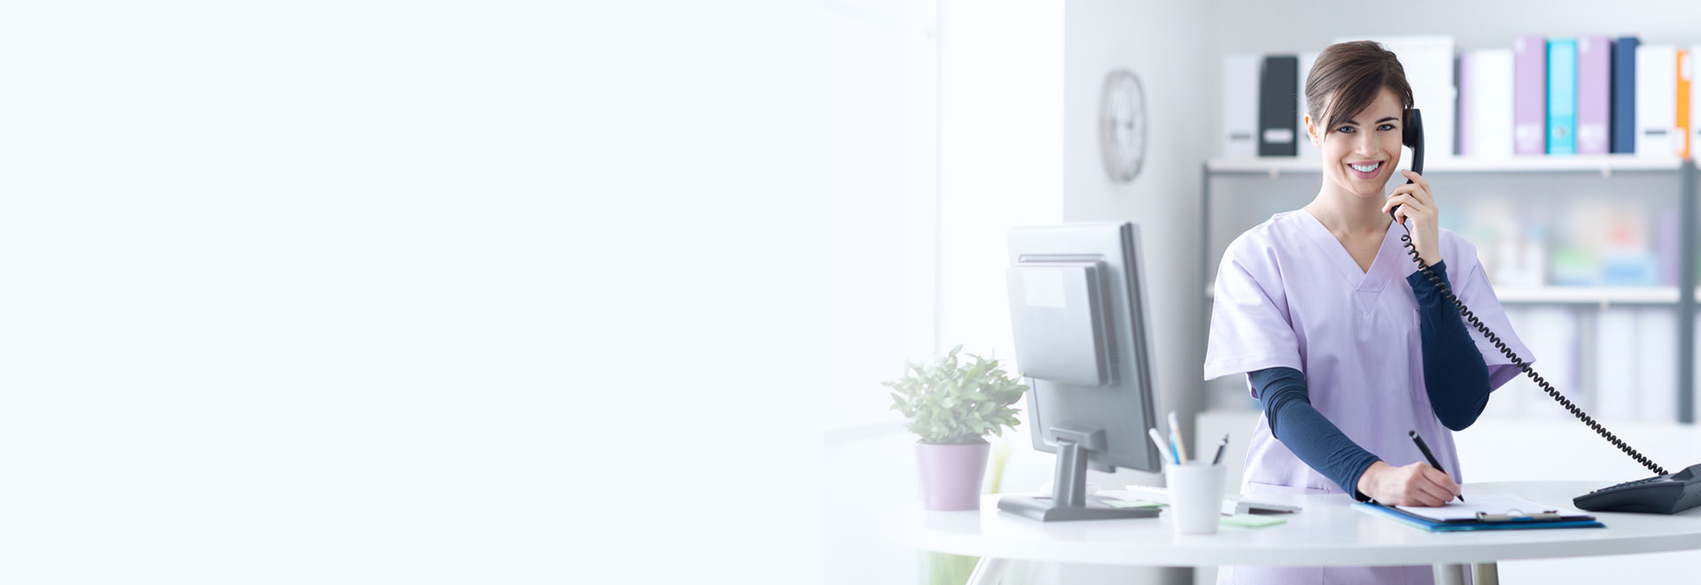
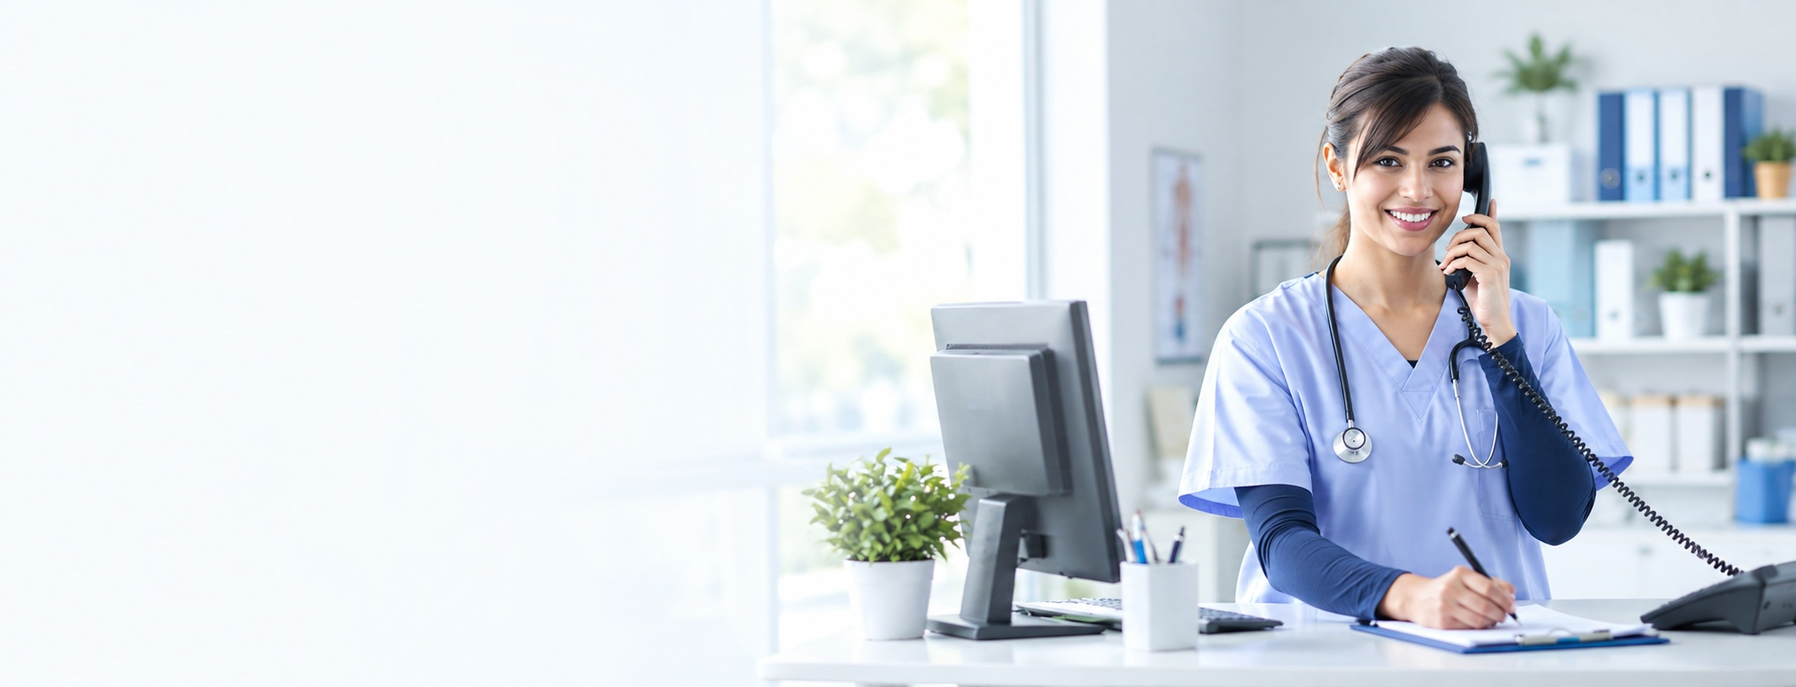
c

diff --git a/src/components/layout/Footer.jsx b/src/components/layout/Footer.jsx
@@ -22,21 +22,21 @@ export default function Footer() {
       <div className="w-full grid grid-cols-1 md:grid-cols-3">
         
         {/* Left Block (Royal Blue - #0B5DA7) */}
-        <div className="bg-[#0B5DA7] p-6 lg:p-8 flex items-center gap-4 text-white">
-          <div className="w-12 h-12 rounded-full border border-white/40 flex items-center justify-center shrink-0">
+        <div className="bg-[#0B5DA7] py-3 px-4 sm:p-6 lg:p-8 flex items-center gap-3 sm:gap-4 text-white">
+          <div className="w-9 h-9 sm:w-12 sm:h-12 rounded-full border border-white/40 flex items-center justify-center shrink-0">
             <img
               src="/images/icons/phone-call.png"
               alt="Phone"
-              className="w-6 h-6 sm:w-7 sm:h-7 object-contain brightness-0 invert"
+              className="w-4.5 h-4.5 sm:w-6 sm:h-7 object-contain brightness-0 invert"
             />
           </div>
           <div>
-            <span className="italic text-xs block text-white/90 tracking-wide">
+            <span className="italic text-[10px] sm:text-xs block text-white/90 tracking-wide">
               Give us a Call
             </span>
             <a
               href={`tel:${clinicInfo.phones.primary.replace(/\s+/g, '')}`}
-              className="font-bold text-lg lg:text-xl text-white hover:underline transition-all block mt-0.5 tracking-tight"
+              className="font-bold text-sm sm:text-lg lg:text-xl text-white hover:underline transition-all block mt-0.5 tracking-tight"
             >
               {clinicInfo.phones.primary}
             </a>
@@ -44,21 +44,21 @@ export default function Footer() {
         </div>
 
         {/* Middle Block (Maternity Pink - #E94E9A) */}
-        <div className="bg-[#E94E9A] p-6 lg:p-8 flex items-center gap-4 text-white">
-          <div className="w-12 h-12 rounded-full border border-white/40 flex items-center justify-center shrink-0">
+        <div className="bg-[#E94E9A] py-3 px-4 sm:p-6 lg:p-8 flex items-center gap-3 sm:gap-4 text-white">
+          <div className="w-9 h-9 sm:w-12 sm:h-12 rounded-full border border-white/40 flex items-center justify-center shrink-0">
             <img
               src="/images/icons/email.png"
               alt="Email"
-              className="w-6 h-6 sm:w-7 sm:h-7 object-contain brightness-0 invert"
+              className="w-4.5 h-4.5 sm:w-6 sm:h-7 object-contain brightness-0 invert"
             />
           </div>
           <div>
-            <span className="italic text-xs block text-white/90 tracking-wide">
+            <span className="italic text-[10px] sm:text-xs block text-white/90 tracking-wide">
               Send us a Message
             </span>
             <a
               href={`mailto:${clinicInfo.email}`}
-              className="font-bold text-base lg:text-lg text-white hover:underline transition-all block mt-0.5 tracking-tight break-all"
+              className="font-bold text-xs sm:text-base lg:text-lg text-white hover:underline transition-all block mt-0.5 tracking-tight break-all"
             >
               {clinicInfo.email}
             </a>
@@ -66,19 +66,19 @@ export default function Footer() {
         </div>
 
         {/* Right Block (Deep Navy Blue - #094b87) */}
-        <div className="bg-[#094b87] p-6 lg:p-8 flex items-center gap-4 text-white">
-          <div className="w-12 h-12 rounded-full border border-white/40 flex items-center justify-center shrink-0">
+        <div className="bg-[#094b87] py-3 px-4 sm:p-6 lg:p-8 flex items-center gap-3 sm:gap-4 text-white">
+          <div className="w-9 h-9 sm:w-12 sm:h-12 rounded-full border border-white/40 flex items-center justify-center shrink-0">
             <img
               src="/images/icons/placeholder.png"
               alt="Location"
-              className="w-6 h-6 sm:w-7 sm:h-7 object-contain brightness-0 invert"
+              className="w-4.5 h-4.5 sm:w-6 sm:h-7 object-contain brightness-0 invert"
             />
           </div>
           <div>
-            <span className="italic text-xs block text-white/90 tracking-wide">
+            <span className="italic text-[10px] sm:text-xs block text-white/90 tracking-wide">
               Visit our Location
             </span>
-            <h5 className="font-bold text-sm lg:text-base text-white block mt-0.5 tracking-tight leading-snug">
+            <h5 className="font-bold text-xs sm:text-sm lg:text-base text-white block mt-0.5 tracking-tight leading-snug">
               {clinicInfo.clinicName}, Mumbai, MH
             </h5>
           </div>
@@ -88,31 +88,37 @@ export default function Footer() {
 
       {/* 2. MAIN FOOTER BODY (3-Column Layout: About + Hours + Google Map) */}
       <div className="w-full bg-[#F9FAFC] border-b border-slate-200">
-        <div className="w-full grid grid-cols-1 lg:grid-cols-12 min-h-[360px] lg:min-h-[380px]">
+        <div className="w-full grid grid-cols-1 lg:grid-cols-12 min-h-0 lg:min-h-[380px]">
           
-          {/* Column 1: About & Clinic Intro with Hospital 3D Illustration */}
-          <div className="lg:col-span-4 p-6 sm:p-8 lg:p-10 flex flex-col justify-between bg-white lg:bg-transparent border-b lg:border-b-0 border-slate-200 relative overflow-hidden">
+          {/* Column 1: About & Clinic Intro with Shifted Hospital Illustration on Mobile */}
+          <div className="lg:col-span-4 p-4 sm:p-8 lg:p-10 flex flex-col justify-between bg-white lg:bg-transparent border-b lg:border-b-0 border-slate-200 relative overflow-hidden">
             <div>
               <h4 
-                className="text-xl font-bold text-[#222B40] mb-3.5 tracking-tight"
+                className="text-lg sm:text-xl font-bold text-[#222B40] mb-2 sm:mb-3.5 tracking-tight"
                 style={{ fontFamily: 'Arial, Helvetica, sans-serif' }}
               >
                 About {clinicInfo.doctorName}
               </h4>
-              <p className="text-sm text-slate-600 leading-relaxed mb-5">
+              <p className="text-xs sm:text-sm text-slate-600 leading-relaxed mb-3 sm:mb-5">
                 Dedicated to providing compassionate, evidence-based maternity, advanced 3D laparoscopic surgery, and personalized fertility care for women at every stage of life.
               </p>
               <a
                 href="#about"
-                className="inline-flex items-center gap-1.5 bg-[#0B5DA7] hover:bg-[#094b87] text-white font-bold text-xs uppercase tracking-wider px-6 py-3 rounded shadow-sm hover:shadow transition-all duration-200 w-fit mb-4 cursor-pointer"
+                className="inline-flex items-center gap-1.5 bg-[#0B5DA7] hover:bg-[#094b87] text-white font-bold text-[11px] sm:text-xs uppercase tracking-wider px-4 sm:px-6 py-2 sm:py-3 rounded shadow-sm hover:shadow transition-all duration-200 w-fit mb-2 sm:mb-4 cursor-pointer"
               >
                 <span>VIEW PROFILE</span>
                 <span className="text-sm font-black leading-none">&raquo;</span>
               </a>
             </div>
 
-            {/* Hospital Building Illustration cleanly anchored at base */}
-            <div className="mt-3 pt-3 w-full flex items-end justify-start">
+            {/* Hospital Building Illustration shifted as background watermark on mobile, cleanly anchored on desktop */}
+            <img
+              src="/images/footer/01.png"
+              alt="Hospital Building"
+              className="sm:hidden absolute right-2 bottom-1 max-h-20 w-auto object-contain opacity-20 pointer-events-none select-none"
+              loading="lazy"
+            />
+            <div className="hidden sm:flex mt-3 pt-3 w-full items-end justify-start">
               <img
                 src="/images/footer/01.png"
                 alt="Hospital Building"
@@ -122,19 +128,19 @@ export default function Footer() {
             </div>
           </div>
 
-          {/* Column 2: Weekly Consultation Hours */}
-          <div className="lg:col-span-4 p-6 sm:p-8 lg:p-10 bg-white flex flex-col justify-center border-b lg:border-b-0 lg:border-x border-slate-200">
+          {/* Column 2: Weekly Consultation Hours - Compact spacing on mobile */}
+          <div className="lg:col-span-4 p-4 sm:p-8 lg:p-10 bg-white flex flex-col justify-center border-b lg:border-b-0 lg:border-x border-slate-200">
             <h4 
-              className="text-xl font-bold text-[#222B40] mb-5 tracking-tight"
+              className="text-base sm:text-xl font-bold text-[#222B40] mb-2 sm:mb-5 tracking-tight"
               style={{ fontFamily: 'Arial, Helvetica, sans-serif' }}
             >
               Our Opening Hours
             </h4>
-            <div className="space-y-2.5">
+            <div className="space-y-1 sm:space-y-2.5">
               {openingHours.map((item, idx) => (
                 <div
                   key={idx}
-                  className="flex justify-between items-center py-2 border-b border-dashed border-slate-200 text-xs sm:text-sm text-slate-600 font-medium"
+                  className="flex justify-between items-center py-1 sm:py-2 border-b border-dashed border-slate-200 text-[11px] sm:text-sm text-slate-600 font-medium"
                 >
                   <span className="text-slate-800 font-semibold">{item.day}</span>
                   <span className="text-slate-500">{item.hours}</span>
@@ -143,11 +149,11 @@ export default function Footer() {
             </div>
           </div>
 
-          {/* Column 3: Full-Bleed Interactive Google Map */}
-          <div className="lg:col-span-4 h-72 lg:h-auto w-full relative min-h-[320px] lg:min-h-[360px]">
+          {/* Column 3: Full-Bleed Interactive Google Map - Reduced height on mobile */}
+          <div className="lg:col-span-4 h-44 sm:h-72 lg:h-auto w-full relative min-h-[175px] sm:min-h-[320px] lg:min-h-[360px]">
             <iframe
               src="https://maps.google.com/maps?q=Mumbai%2C%20Maharashtra&t=&z=14&ie=UTF8&iwloc=&output=embed"
-              className="w-full h-full min-h-[320px] lg:min-h-[360px] border-0"
+              className="w-full h-full min-h-[175px] sm:min-h-[320px] lg:min-h-[360px] border-0"
               allowFullScreen
               loading="lazy"
               title="Clinic Location"
@@ -199,14 +205,15 @@ export default function Footer() {
                 target="_blank"
                 rel="noreferrer"
                 className="flex items-center gap-2 hover:text-[#3b5998] transition-colors group px-1 py-1"
+                aria-label="Facebook"
               >
                 <span className="w-7 h-7 sm:w-8 sm:h-8 rounded-full bg-[#3b5998] text-white flex items-center justify-center font-bold text-xs sm:text-sm group-hover:scale-110 transition-transform shadow-xs">
                   f
                 </span>
-                <span className="font-semibold text-slate-700 group-hover:text-[#3b5998]">Facebook</span>
+                <span className="hidden sm:inline font-semibold text-slate-700 group-hover:text-[#3b5998]">Facebook</span>
               </a>
 
-              <span className="text-slate-300 select-none text-sm">/</span>
+              <span className="hidden sm:inline text-slate-300 select-none text-sm">/</span>
 
               {/* Instagram */}
               <a
@@ -214,16 +221,17 @@ export default function Footer() {
                 target="_blank"
                 rel="noreferrer"
                 className="flex items-center gap-2 hover:text-[#E4405F] transition-colors group px-1 py-1"
+                aria-label="Instagram"
               >
                 <span className="w-7 h-7 sm:w-8 sm:h-8 rounded-full bg-gradient-to-tr from-[#f09433] via-[#dc2743] to-[#bc1888] text-white flex items-center justify-center group-hover:scale-110 transition-transform shadow-xs">
                   <svg className="w-3.5 h-3.5 sm:w-4 sm:h-4 fill-current" viewBox="0 0 24 24">
                     <path d="M12 2.163c3.204 0 3.584.012 4.85.07 3.252.148 4.771 1.691 4.919 4.919.058 1.265.069 1.645.069 4.849 0 3.205-.012 3.584-.069 4.849-.149 3.225-1.664 4.771-4.919 4.919-1.266.058-1.644.07-4.85.07-3.204 0-3.584-.012-4.849-.07-3.26-.149-4.771-1.699-4.919-4.92-.058-1.265-.07-1.644-.07-4.849 0-3.204.013-3.583.07-4.849.149-3.227 1.664-4.771 4.919-4.919 1.266-.057 1.645-.069 4.849-.069zm0-2.163c-3.259 0-3.667.014-4.947.072-4.358.2-6.78 2.618-6.98 6.98-.059 1.281-.073 1.689-.073 4.948 0 3.259.014 3.668.072 4.948.2 4.358 2.618 6.78 6.98 6.98 1.281.058 1.689.072 4.948.072 3.259 0 3.668-.014 4.948-.072 4.354-.2 6.782-2.618 6.979-6.98.059-1.28.073-1.689.073-4.948 0-3.259-.014-3.667-.072-4.947-.196-4.354-2.617-6.78-6.979-6.98-1.281-.059-1.69-.073-4.949-.073zm0 5.838c-3.403 0-6.162 2.759-6.162 6.162s2.759 6.163 6.162 6.163 6.162-2.759 6.162-6.163c0-3.403-2.759-6.162-6.162-6.162zm0 10.162c-2.209 0-4-1.79-4-4 0-2.209 1.791-4 4-4s4 1.791 4 4c0 2.21-1.791 4-4 4zm6.406-11.845c-.796 0-1.441.645-1.441 1.44s.645 1.44 1.441 1.44c.795 0 1.439-.645 1.439-1.44s-.644-1.44-1.439-1.44z"/>
                   </svg>
                 </span>
-                <span className="font-semibold text-slate-700 group-hover:text-[#E4405F]">Instagram</span>
+                <span className="hidden sm:inline font-semibold text-slate-700 group-hover:text-[#E4405F]">Instagram</span>
               </a>
 
-              <span className="text-slate-300 select-none text-sm">/</span>
+              <span className="hidden sm:inline text-slate-300 select-none text-sm">/</span>
 
               {/* Twitter / X */}
               <a
@@ -231,14 +239,15 @@ export default function Footer() {
                 target="_blank"
                 rel="noreferrer"
                 className="flex items-center gap-2 hover:text-[#1da1f2] transition-colors group px-1 py-1"
+                aria-label="Twitter"
               >
                 <span className="w-7 h-7 sm:w-8 sm:h-8 rounded-full bg-[#1da1f2] text-white flex items-center justify-center font-bold text-[11px] sm:text-xs group-hover:scale-110 transition-transform shadow-xs">
                   𝕏
                 </span>
-                <span className="font-semibold text-slate-700 group-hover:text-[#1da1f2]">Twitter</span>
+                <span className="hidden sm:inline font-semibold text-slate-700 group-hover:text-[#1da1f2]">Twitter</span>
               </a>
 
-              <span className="text-slate-300 select-none text-sm">/</span>
+              <span className="hidden sm:inline text-slate-300 select-none text-sm">/</span>
 
               {/* LinkedIn */}
               <a
@@ -246,20 +255,26 @@ export default function Footer() {
                 target="_blank"
                 rel="noreferrer"
                 className="flex items-center gap-2 hover:text-[#0077b5] transition-colors group px-1 py-1"
+                aria-label="LinkedIn"
               >
                 <span className="w-7 h-7 sm:w-8 sm:h-8 rounded-full bg-[#0077b5] text-white flex items-center justify-center font-bold text-[11px] sm:text-xs group-hover:scale-110 transition-transform shadow-xs">
                   in
                 </span>
-                <span className="font-semibold text-slate-700 group-hover:text-[#0077b5]">Linkedin</span>
+                <span className="hidden sm:inline font-semibold text-slate-700 group-hover:text-[#0077b5]">Linkedin</span>
               </a>
 
             </div>
 
           </div>
 
-          {/* Copyright strip down like it was before */}
-          <div className="text-center text-xs text-slate-400 pt-2.5 border-t border-slate-100 w-full">
-            &copy; {new Date().getFullYear()} {clinicInfo.doctorName} - Women's Healthcare &amp; Fertility Care.
+          {/* Copyright strip with designer credit */}
+          <div className="flex flex-col sm:flex-row items-center justify-between gap-1.5 sm:gap-2 text-center text-xs text-slate-400 pt-2.5 border-t border-slate-100 w-full">
+            <p>
+              &copy; {new Date().getFullYear()} {clinicInfo.doctorName} - Women's Healthcare &amp; Fertility Care.
+            </p>
+            <p className="text-slate-500 font-medium text-[11px] sm:text-xs">
+              Designed by <span className="font-semibold text-[#0B5DA7]">Shree Krishna Digital Marketing</span>
+            </p>
           </div>
 
         </div>

diff --git a/src/components/shared/AppointmentBookingSection.jsx b/src/components/shared/AppointmentBookingSection.jsx
@@ -58,9 +58,9 @@ export default function AppointmentBookingSection({ onBookAppointment }) {
   return (
     <section 
       id="appointment" 
-      className="relative py-16 lg:py-24 bg-cover bg-no-repeat bg-[center_right] sm:bg-right overflow-hidden"
+      className="relative py-12 sm:py-16 lg:py-24 bg-cover bg-no-repeat bg-[78%_center] sm:bg-right overflow-hidden"
       style={{
-        backgroundImage: "url('/images/request/bg-01.jpg')",
+        backgroundImage: "url('/images/request/g2.png')",
       }}
     >
       {/* Subtle Dot Pattern */}
@@ -70,15 +70,15 @@ export default function AppointmentBookingSection({ onBookAppointment }) {
       />
 
       <div className="container mx-auto px-4 sm:px-6 lg:px-8 max-w-7xl relative z-10">
-        <div className="max-w-2xl lg:max-w-xl">
+        <div className="w-full max-w-[290px] xs:max-w-[320px] sm:max-w-2xl lg:max-w-xl">
           
           {/* Section Header */}
-          <div className="mb-8 sm:mb-10">
-            <span className="block text-[#0B5DA7] text-xl sm:text-2xl font-bold tracking-tight">
+          <div className="mb-5 sm:mb-10">
+            <span className="block text-[#0B5DA7] text-lg sm:text-2xl font-bold tracking-tight">
               Have A Questions?
             </span>
             <h2 
-              className="text-3xl sm:text-4xl font-bold text-[#222B40] mt-1 tracking-tight"
+              className="text-2xl sm:text-4xl font-bold text-[#222B40] mt-0.5 sm:mt-1 tracking-tight"
               style={{ fontFamily: 'Arial, Helvetica, sans-serif' }}
             >
               Consult With <span className="text-[#E94E9A]">{clinicInfo.doctorName}</span>
@@ -87,7 +87,7 @@ export default function AppointmentBookingSection({ onBookAppointment }) {
 
           {/* Success Toast Banner */}
           {submitted && (
-            <div className="mb-6 p-4 rounded-md bg-[#eef8e5] border border-[#73B737]/30 text-[#222B40] animate-in fade-in flex items-center gap-3">
+            <div className="mb-4 sm:mb-6 p-3.5 sm:p-4 rounded-md bg-[#eef8e5] border border-[#73B737]/30 text-[#222B40] animate-in fade-in flex items-center gap-3">
               <svg className="w-5 h-5 text-[#73B737] shrink-0" fill="none" viewBox="0 0 24 24" stroke="currentColor">
                 <path strokeLinecap="round" strokeLinejoin="round" strokeWidth="2" d="M5 13l4 4L19 7" />
               </svg>
@@ -99,13 +99,13 @@ export default function AppointmentBookingSection({ onBookAppointment }) {
 
           {/* Error Banner */}
           {errorMessage && (
-            <div className="mb-6 p-3 rounded-md bg-red-50 border border-red-200 text-red-600 text-xs sm:text-sm font-medium animate-in fade-in">
+            <div className="mb-4 sm:mb-6 p-3 rounded-md bg-red-50 border border-red-200 text-red-600 text-xs sm:text-sm font-medium animate-in fade-in">
               {errorMessage}
             </div>
           )}
 
           {/* Form */}
-          <form onSubmit={handleSubmit} className="grid grid-cols-1 sm:grid-cols-2 gap-4">
+          <form onSubmit={handleSubmit} className="grid grid-cols-1 sm:grid-cols-2 gap-3 sm:gap-4">
             
             {/* Row 1: Name & Phone */}
             <div>
@@ -116,7 +116,7 @@ export default function AppointmentBookingSection({ onBookAppointment }) {
                 onChange={handleChange}
                 placeholder="Your Name"
                 required
-                className="w-full bg-white px-4 py-3.5 rounded-sm text-sm text-[#222B40] placeholder-slate-400 shadow-sm border border-slate-100 hover:border-slate-200 focus:outline-none focus:ring-2 focus:ring-[#73B737]/60 focus:border-transparent transition-all"
+                className="w-full bg-white/60 sm:bg-white backdrop-blur-xs px-3.5 sm:px-4 py-2.5 sm:py-3.5 rounded-sm text-sm text-[#222B40] placeholder-slate-600 sm:placeholder-slate-400 shadow-xs sm:shadow-sm border border-white/70 sm:border-slate-100 hover:border-white/90 sm:hover:border-slate-300 focus:outline-none focus:ring-2 focus:ring-[#73B737]/60 focus:border-transparent transition-all"
               />
             </div>
 
@@ -128,7 +128,7 @@ export default function AppointmentBookingSection({ onBookAppointment }) {
                 onChange={handleChange}
                 placeholder="Your Phone"
                 required
-                className="w-full bg-white px-4 py-3.5 rounded-sm text-sm text-[#222B40] placeholder-slate-400 shadow-sm border border-slate-100 hover:border-slate-200 focus:outline-none focus:ring-2 focus:ring-[#73B737]/60 focus:border-transparent transition-all"
+                className="w-full bg-white/60 sm:bg-white backdrop-blur-xs px-3.5 sm:px-4 py-2.5 sm:py-3.5 rounded-sm text-sm text-[#222B40] placeholder-slate-600 sm:placeholder-slate-400 shadow-xs sm:shadow-sm border border-white/70 sm:border-slate-100 hover:border-white/90 sm:hover:border-slate-300 focus:outline-none focus:ring-2 focus:ring-[#73B737]/60 focus:border-transparent transition-all"
               />
             </div>
 
@@ -138,7 +138,7 @@ export default function AppointmentBookingSection({ onBookAppointment }) {
                 name="service"
                 value={formData.service}
                 onChange={handleChange}
-                className="w-full bg-white px-4 py-3.5 rounded-sm text-sm text-slate-600 shadow-sm border border-slate-100 hover:border-slate-200 focus:outline-none focus:ring-2 focus:ring-[#73B737]/60 focus:border-transparent transition-all cursor-pointer"
+                className="w-full bg-white/60 sm:bg-white backdrop-blur-xs px-3.5 sm:px-4 py-2.5 sm:py-3.5 rounded-sm text-sm text-slate-800 sm:text-slate-600 shadow-xs sm:shadow-sm border border-white/70 sm:border-slate-100 hover:border-white/90 sm:hover:border-slate-300 focus:outline-none focus:ring-2 focus:ring-[#73B737]/60 focus:border-transparent transition-all cursor-pointer"
               >
                 <option value="">Type of Service</option>
                 <option value="Maternity & Delivery Care">Maternity & Delivery Care</option>
@@ -163,7 +163,7 @@ export default function AppointmentBookingSection({ onBookAppointment }) {
                   if (!e.target.value) e.target.type = 'text';
                 }}
                 placeholder="dd/mm/yyyy"
-                className="w-full bg-white px-4 py-3.5 rounded-sm text-sm text-slate-600 placeholder-slate-400 shadow-sm border border-slate-100 hover:border-slate-200 focus:outline-none focus:ring-2 focus:ring-[#73B737]/60 focus:border-transparent transition-all"
+                className="w-full bg-white/60 sm:bg-white backdrop-blur-xs px-3.5 sm:px-4 py-2.5 sm:py-3.5 rounded-sm text-sm text-slate-800 sm:text-slate-600 placeholder-slate-600 sm:placeholder-slate-400 shadow-xs sm:shadow-sm border border-white/70 sm:border-slate-100 hover:border-white/90 sm:hover:border-slate-300 focus:outline-none focus:ring-2 focus:ring-[#73B737]/60 focus:border-transparent transition-all"
               />
             </div>
 
@@ -173,7 +173,7 @@ export default function AppointmentBookingSection({ onBookAppointment }) {
                 name="fromTime"
                 value={formData.fromTime}
                 onChange={handleChange}
-                className="w-full bg-white px-4 py-3.5 rounded-sm text-sm text-slate-600 shadow-sm border border-slate-100 hover:border-slate-200 focus:outline-none focus:ring-2 focus:ring-[#73B737]/60 focus:border-transparent transition-all cursor-pointer"
+                className="w-full bg-white/60 sm:bg-white backdrop-blur-xs px-3.5 sm:px-4 py-2.5 sm:py-3.5 rounded-sm text-sm text-slate-800 sm:text-slate-600 shadow-xs sm:shadow-sm border border-white/70 sm:border-slate-100 hover:border-white/90 sm:hover:border-slate-300 focus:outline-none focus:ring-2 focus:ring-[#73B737]/60 focus:border-transparent transition-all cursor-pointer"
               >
                 <option value="">From</option>
                 <option value="10:00 AM">10:00 AM</option>
@@ -189,7 +189,7 @@ export default function AppointmentBookingSection({ onBookAppointment }) {
                 name="toTime"
                 value={formData.toTime}
                 onChange={handleChange}
-                className="w-full bg-white px-4 py-3.5 rounded-sm text-sm text-slate-600 shadow-sm border border-slate-100 hover:border-slate-200 focus:outline-none focus:ring-2 focus:ring-[#73B737]/60 focus:border-transparent transition-all cursor-pointer"
+                className="w-full bg-white/60 sm:bg-white backdrop-blur-xs px-3.5 sm:px-4 py-2.5 sm:py-3.5 rounded-sm text-sm text-slate-800 sm:text-slate-600 shadow-xs sm:shadow-sm border border-white/70 sm:border-slate-100 hover:border-white/90 sm:hover:border-slate-300 focus:outline-none focus:ring-2 focus:ring-[#73B737]/60 focus:border-transparent transition-all cursor-pointer"
               >
                 <option value="">To</option>
                 <option value="11:30 AM">11:30 AM</option>
@@ -206,7 +206,7 @@ export default function AppointmentBookingSection({ onBookAppointment }) {
                 name="doctor"
                 value={formData.doctor}
                 onChange={handleChange}
-                className="w-full bg-white px-4 py-3.5 rounded-sm text-sm text-slate-600 shadow-sm border border-slate-100 hover:border-slate-200 focus:outline-none focus:ring-2 focus:ring-[#73B737]/60 focus:border-transparent transition-all cursor-pointer"
+                className="w-full bg-white/60 sm:bg-white backdrop-blur-xs px-3.5 sm:px-4 py-2.5 sm:py-3.5 rounded-sm text-sm text-slate-800 sm:text-slate-600 shadow-xs sm:shadow-sm border border-white/70 sm:border-slate-100 hover:border-white/90 sm:hover:border-slate-300 focus:outline-none focus:ring-2 focus:ring-[#73B737]/60 focus:border-transparent transition-all cursor-pointer"
               >
                 <option value="">Staff</option>
                 <option value={`${clinicInfo.doctorName} (Lead Consultant)`}>{clinicInfo.doctorName} (Lead Consultant)</option>
@@ -219,7 +219,7 @@ export default function AppointmentBookingSection({ onBookAppointment }) {
             <div>
               <button
                 type="submit"
-                className="w-full h-full min-h-[46px] inline-flex items-center justify-center gap-1.5 bg-[#0B5DA7] hover:bg-[#094b87] text-white font-bold text-xs sm:text-[13px] uppercase tracking-wider px-5 py-3.5 rounded-sm shadow-sm hover:shadow-md active:scale-98 transition-all duration-200 cursor-pointer"
+                className="w-full h-full min-h-[44px] sm:min-h-[46px] inline-flex items-center justify-center gap-1.5 bg-[#0B5DA7] hover:bg-[#094b87] text-white font-bold text-xs sm:text-[13px] uppercase tracking-wider px-5 py-3 sm:py-3.5 rounded-sm shadow-sm hover:shadow-md active:scale-98 transition-all duration-200 cursor-pointer"
               >
                 <span>CHECK AVAILABILITY</span>
                 <span className="text-sm font-black leading-none">&raquo;</span>
